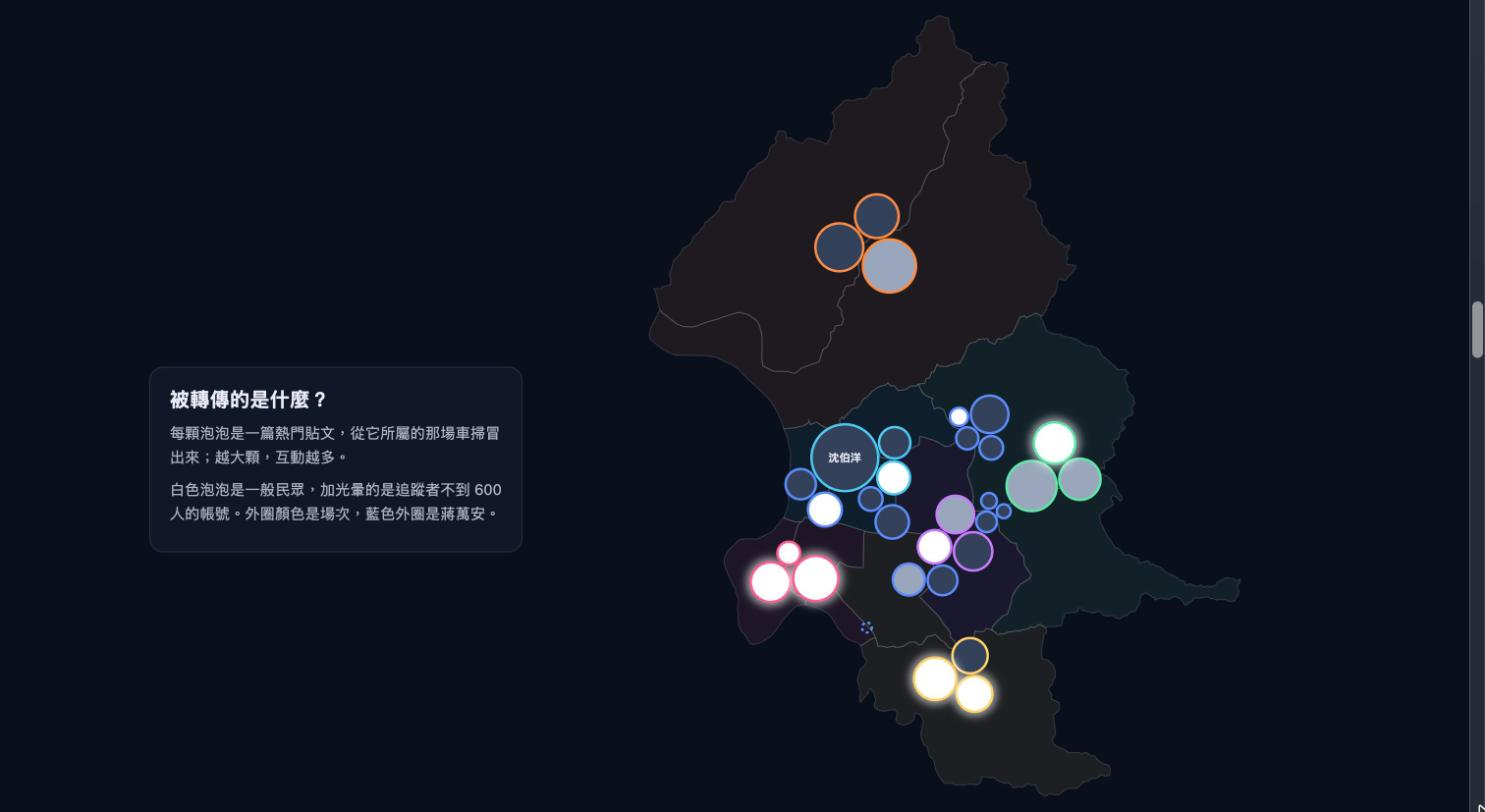
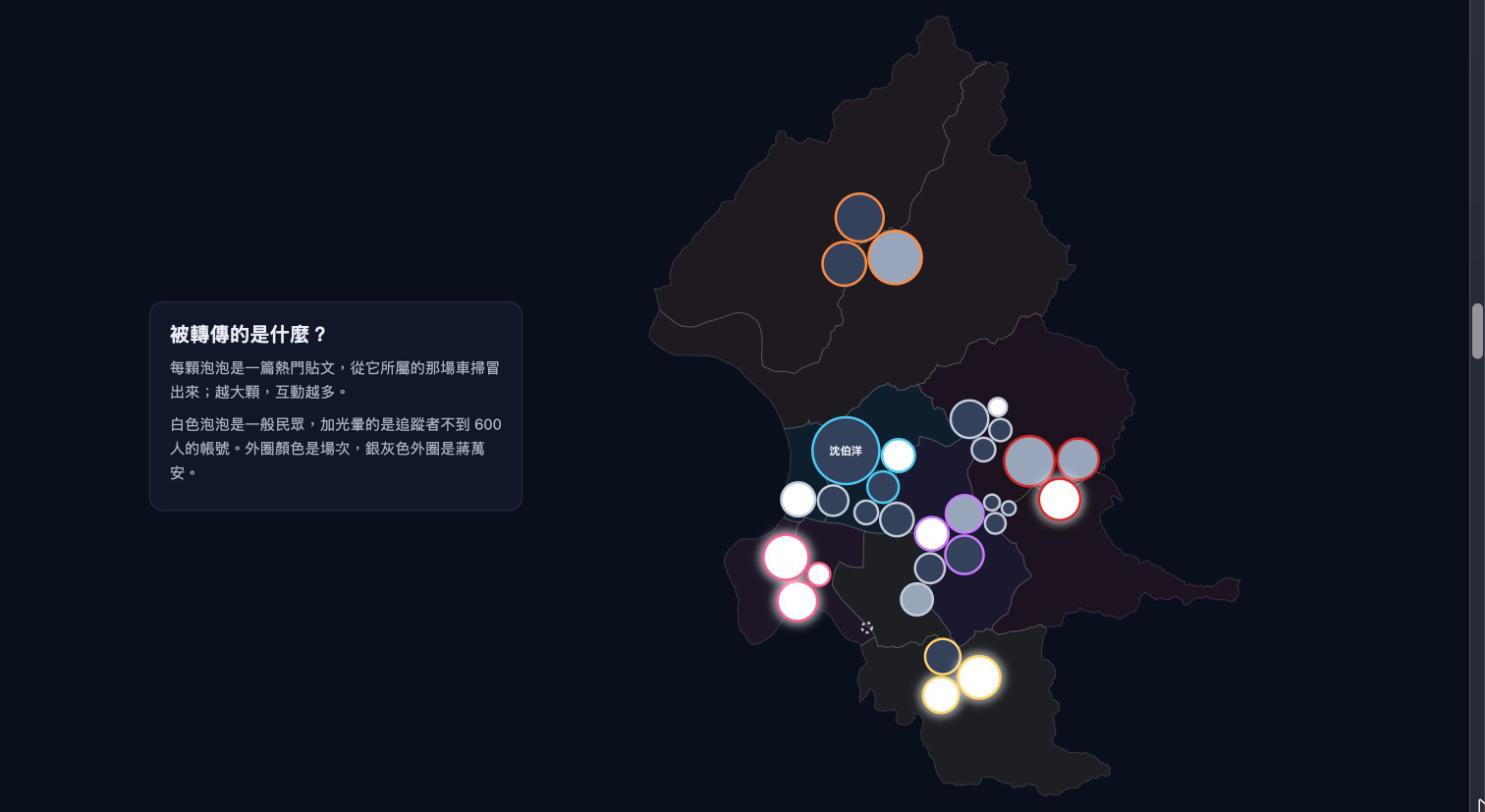
地圖加亮度參考條、不用政黨色、圖 1 說明補充
- 地圖左上角加亮度參考條（0～1,283 筆），白色三角形標出當天筆數
- 11/7 內湖×南港由綠色改紅色，蔣萬安由藍色改銀灰，兩位候選人都不用政黨色
- 圖 1 與敘事段落說明亮度、蔣萬安光點大小的意思
- README 補配色原則，4 張截圖換成新版

diff --git a/js/map.js b/js/map.js
@@ -63,6 +63,7 @@
     let projection;
     let path;
     let spark = null;
+    let legend = null;
 
     const sessionOf = (f) => H.sessionByDistrict.get(f.properties.name);
     const touchOnly = window.matchMedia('(hover: none)').matches;
@@ -77,7 +78,7 @@
       if (w < 200 || h < 200) return false;
       svg.attr('viewBox', `0 0 ${w} ${h}`).attr('width', w).attr('height', h);
       const sparkH = o.hud ? 58 : 0;
-      const pad = { top: o.hud ? 70 : 16, right: 16, bottom: 16 + sparkH, left: 16 };
+      const pad = { top: o.hud ? 100 : 16, right: 16, bottom: 16 + sparkH, left: 16 };
       projection = H.fitProjection(w, h, pad);
       path = d3.geoPath(projection);
 
@@ -219,6 +220,27 @@
       gHud.selectAll('*').remove();
       gHud.append('text').attr('class', 'hud-date').attr('x', 16).attr('y', 30);
       gHud.append('text').attr('class', 'hud-count').attr('x', 16).attr('y', 50);
+      // 亮度參考條：最近一場車掃的兩區，亮度＝當天筆數 ÷ 期間最多的一天；三角形標出目前這一天的位置。
+      const lg = gHud.append('g').attr('class', 'glow-legend').attr('transform', 'translate(16,64)');
+      const barX = 30;
+      const barW = Math.min(200, w - 80);
+      const gradId = `${id}-legend`;
+      const grad = defs.selectAll(`#${gradId}`).data([null]).join('linearGradient').attr('id', gradId);
+      const stops = grad.selectAll('stop').data(d3.range(11)).join('stop')
+        .attr('offset', (i) => `${i * 10}%`);
+      lg.append('text').attr('class', 'spark-tick').attr('x', 0).attr('y', 14).text('亮度');
+      lg.append('rect').attr('x', barX).attr('y', 6).attr('width', barW).attr('height', 10).attr('rx', 2)
+        .attr('fill', `url(#${gradId})`);
+      const ticks = [0, 400, 800, H.MAX_SHEN];
+      lg.append('g').selectAll('line').data(ticks).join('line').attr('class', 'legend-tick')
+        .attr('x1', (d) => barX + (d / H.MAX_SHEN) * barW).attr('x2', (d) => barX + (d / H.MAX_SHEN) * barW)
+        .attr('y1', 16).attr('y2', 20);
+      lg.append('g').selectAll('text').data(ticks).join('text').attr('class', 'spark-tick')
+        .attr('x', (d) => barX + (d / H.MAX_SHEN) * barW).attr('y', 31)
+        .attr('text-anchor', (d, i) => (i === 0 ? 'start' : i === ticks.length - 1 ? 'end' : 'middle'))
+        .text((d, i) => (i === ticks.length - 1 ? `${H.fmt(d)} 筆` : H.fmt(d)));
+      const marker = lg.append('path').attr('class', 'legend-marker').attr('d', 'M0,5 l-4,-6 h8 z');
+      legend = { barX, barW, stops, marker };
       const sy0 = h - 50;
       const sy1 = h - 14;
       const sx = d3.scaleLinear().domain([0, last]).range([20, w - 20]);
@@ -306,6 +328,18 @@
       else if (current) line += ` · 距 ${current.name} ${dayDiff(current.date, d)} 天`;
       if (row.note) line += ` · ${row.note}`;
       gHud.select('.hud-count').text(line);
+      if (legend) {
+        // 亮度畫在「最近一場車掃」的兩區，參考條也用那一場的顏色。
+        const color = current ? current.color : '#9aa6bd';
+        // 和地圖區塊同樣的換算：填色透明度 0.1＋0.5×亮度，再加上光暈。
+        legend.stops.attr('stop-color', color)
+          .attr('stop-opacity', (i) => {
+            const t = i / 10;
+            return Math.min(1, 0.1 + 0.5 * t + 0.35 * Math.pow(t, 1.3));
+          });
+        const v = Math.min(1, row.shen / H.MAX_SHEN);
+        legend.marker.attr('transform', `translate(${legend.barX + v * legend.barW},4)`);
+      }
       if (spark) {
         const x = spark.sx(dayIdx);
         spark.cursor.attr('x1', x).attr('x2', x);

diff --git a/index.html b/index.html
@@ -39,7 +39,7 @@
       </article>
       <article class="story-step">
         <h2>播放：討論像洋流一樣流過台北</h2>
-        <p>時間從 10/1 跑到 11/16。每天的亮度是當天和車掃有關的討論量，畫在最近一場車掃的那兩區；跑過的場次留下微光。</p>
+        <p>時間從 10/1 跑到 11/16。每天的亮度是當天和車掃有關的討論量，畫在最近一場車掃的那兩區；跑過的場次留下微光。左上角的亮度條可以對照筆數。</p>
         <p>車掃那天，洋流湧進那兩區；幾天後就退了，要等下一場才又亮起來。</p>
         <p><button type="button" class="replay-btn">↻ 重播</button></p>
       </article>
@@ -56,7 +56,7 @@
       <article class="story-step">
         <h2>被轉傳的是什麼？</h2>
         <p>每顆泡泡是一篇熱門貼文，從它所屬的那場車掃冒出來；越大顆，互動越多。</p>
-        <p>白色泡泡是一般民眾，加光暈的是追蹤者不到 600 人的帳號。外圈顏色是場次，藍色外圈是蔣萬安。</p>
+        <p>白色泡泡是一般民眾，加光暈的是追蹤者不到 600 人的帳號。外圈顏色是場次，銀灰色外圈是蔣萬安。</p>
       </article>
       <article class="story-step">
         <h2>沈伯洋的熱門互動，六成來自一般民眾與個人帳號</h2>
@@ -65,7 +65,7 @@
       </article>
       <article class="story-step">
         <h2>蔣萬安走夜市，有 2 場隔天討論變多</h2>
-        <p>藍色光點是蔣萬安的夜市、市場掃街。他的熱門貼文多是政治人物、評論者與媒體的攻防。</p>
+        <p>銀灰色光點是蔣萬安的夜市、市場掃街，越大越亮代表那場當天或隔天的討論越多。他的熱門貼文多是政治人物、評論者與媒體的攻防。</p>
         <p>7 場裡有 2 場隔天討論反而變多：10/27 內湖 737 夜市（隔天他身體不適、取消行程），11/6 遼寧夜市（走進挺沈伯洋的水餃店「又一村」引發爭議）。</p>
       </article>
       <article class="story-step">
@@ -86,7 +86,8 @@
     <section class="panel map-panel">
       <div class="map-col">
         <h3>圖 1　洋流地圖</h3>
-        <p class="sub">點一塊看那場車掃的細節；按播放看每天的變化，或拖曳下方時間軸。藍色光點是蔣萬安的夜市、市場掃街。</p>
+        <p class="sub">點一塊看那場車掃的細節；按播放看每天的變化，或拖曳下方時間軸。區塊和光點的亮度，都是地圖上方那一天全台的掃街相關討論量，不是各區各自的量；左上角的亮度條可以對照筆數，白色三角形是目前這一天。</p>
+        <p class="sub">銀灰色光點是蔣萬安的夜市、市場掃街（依地名標的約略位置；10/29 夫人代打沒有地點，未標）。只有最近一場會放大：點越大越亮，代表那天和蔣萬安掃街有關的討論越多；已經過去的場次縮成小點，還沒到的場次最暗。</p>
         <div class="chart" data-chart="map"></div>
       </div>
       <aside class="detail-card" aria-live="polite"></aside>

diff --git a/styles.css b/styles.css
@@ -88,7 +88,7 @@ html, body { margin: 0; background: #0a0f1c; }
 @keyframes flow { to { stroke-dashoffset: -48; } }
 .map-label-no { font-size: 12px; font-weight: 700; fill: #ffffff; paint-order: stroke; stroke: rgba(10, 15, 28, 0.85); stroke-width: 3px; }
 .map-label-name { font-size: 12px; fill: #dfe5f0; paint-order: stroke; stroke: rgba(10, 15, 28, 0.85); stroke-width: 3px; }
-.spot-label { font-size: 11px; fill: #cfdcff; paint-order: stroke; stroke: rgba(10, 15, 28, 0.9); stroke-width: 3px; }
+.spot-label { font-size: 11px; fill: #e3e6ec; paint-order: stroke; stroke: rgba(10, 15, 28, 0.9); stroke-width: 3px; }
 .spot { cursor: default; }
 .hud-date { font-size: 22px; font-weight: 800; fill: #ffffff; }
 .hud-count { font-size: 13px; fill: var(--text-secondary); }
@@ -96,6 +96,8 @@ html, body { margin: 0; background: #0a0f1c; }
 .spark-line { fill: none; stroke: rgba(255, 255, 255, 0.55); stroke-width: 1.5; }
 .spark-cursor { stroke: #ffffff; stroke-width: 1.5; }
 .spark-tick { font-size: 10px; fill: var(--text-muted); }
+.legend-marker { fill: #ffffff; }
+.legend-tick { stroke: var(--text-muted); stroke-width: 1; }
 .map-controls { position: absolute; top: 12px; right: 12px; }
 .play-btn {
   color: var(--text-primary); background: rgba(23, 32, 54, 0.9); border: 1px solid var(--border);

diff --git a/js/common.js b/js/common.js
@@ -25,7 +25,7 @@
     '2026-10-18': { no: 2, color: '#c77dff', districts: ['松山區', '信義區'] },
     '2026-10-31': { no: 3, color: '#ff5d8f', districts: ['中正區', '萬華區'] },
     '2026-11-01': { no: 4, color: '#ffd166', districts: ['大安區', '文山區'] },
-    '2026-11-07': { no: 5, color: '#5ee6a8', districts: ['內湖區', '南港區'] },
+    '2026-11-07': { no: 5, color: '#d62828', districts: ['內湖區', '南港區'] },
     '2026-11-15': { no: 6, color: '#ff8c42', districts: ['士林區', '北投區'] },
   };
   const sessions = data.shenSessions.map((s) => ({
@@ -37,7 +37,8 @@
   const sessionByDate = new Map(sessions.map((s) => [s.date, s]));
   const sessionByDistrict = new Map(sessions.flatMap((s) => s.districts.map((d) => [d, s])));
 
-  const CHIANG_COLOR = '#5b8cff';
+  // 兩位候選人都不用政黨色（綠、藍）：沈伯洋各場用場次色，蔣萬安用中性的銀灰。
+  const CHIANG_COLOR = '#c3cad8';
   // 夜市位置是我們依地名標的約略座標；10/29 太太代為走的市場原文沒有地點，不標。
   const CHIANG_SPOTS = [
     // dx／dy／anchor 是標籤相對光點的位置，避免彼此重疊

diff --git a/README.md b/README.md
@@ -61,6 +61,7 @@
 **設計上的選擇**
 
 - 地圖要發光，整頁用深色。6 場車掃各一種顏色，地圖、總覽、對齊圖、倍數圖、泡泡外圈都用同一套，讀者靠顏色就能跨圖找到同一場。
+- 兩位候選人都不用政黨色：沈伯洋 6 場各用一種場次色（避開綠色），蔣萬安用中性的銀灰（不用藍色），避免顏色本身帶出立場。
 - 泡泡的填色改用明暗（白、灰、深）表示發文者類型，不和場次顏色衝突；「一般民眾」最亮，呼應「素人也能衝出數萬互動」。
 - 兩位候選人的查詢會重疊（一篇同時提到兩人，兩邊都算），所以不把兩人的筆數畫在同一個刻度上比高低，只比各自的起伏。
 - 系統設定「減少動態效果」時，波紋與動畫會停用。
